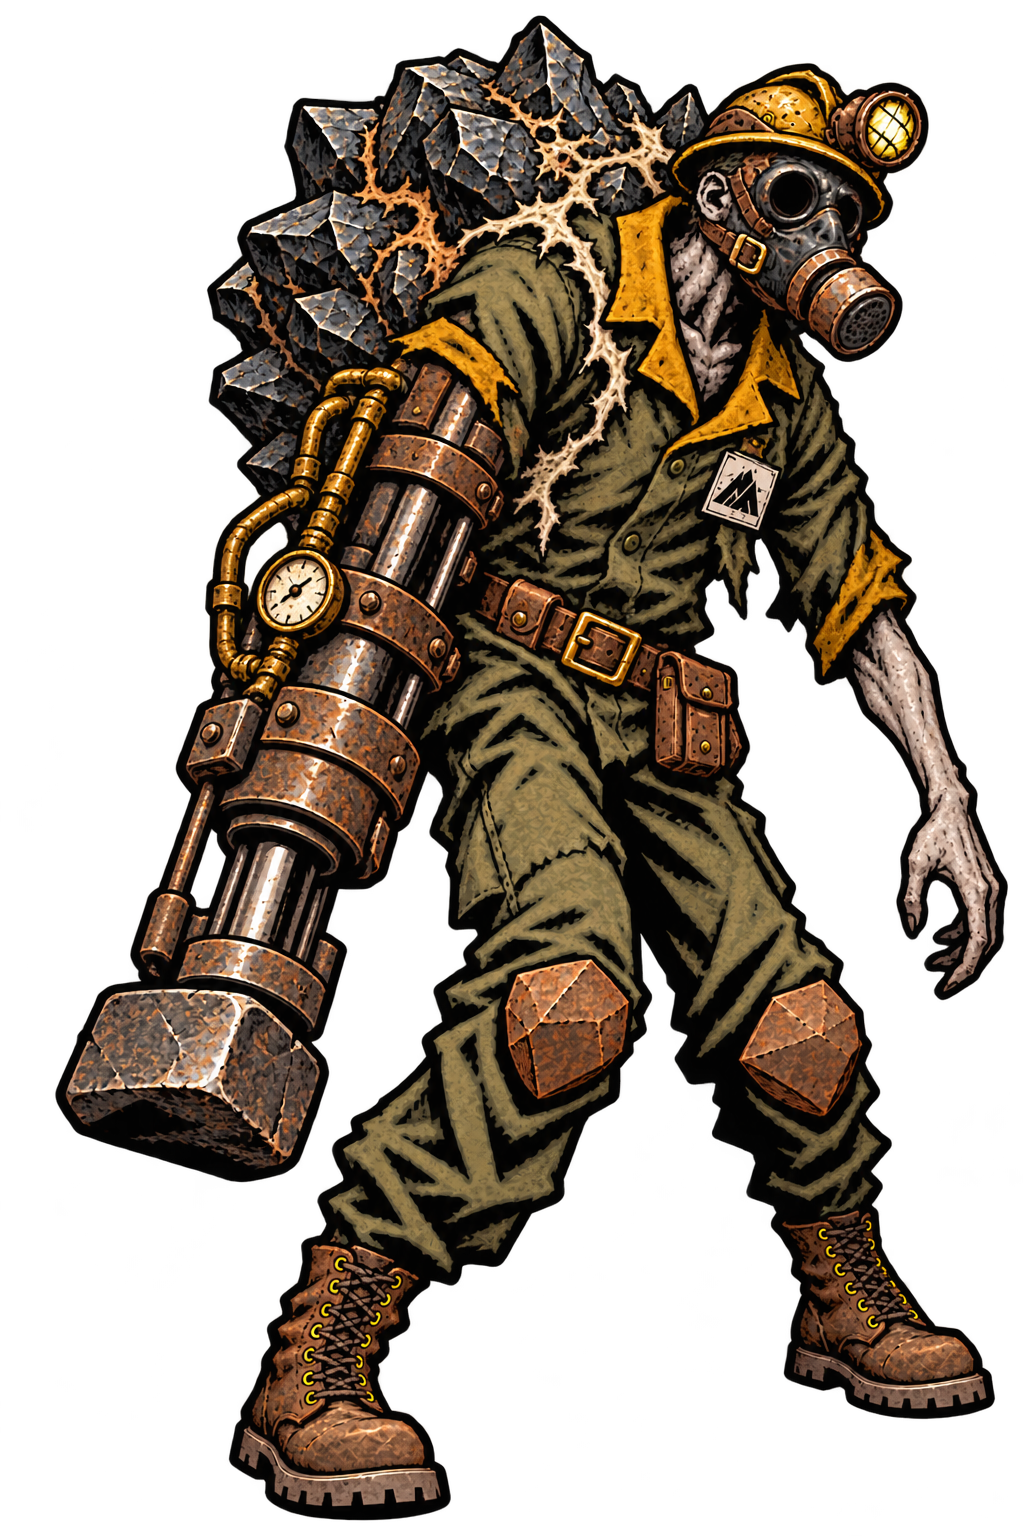
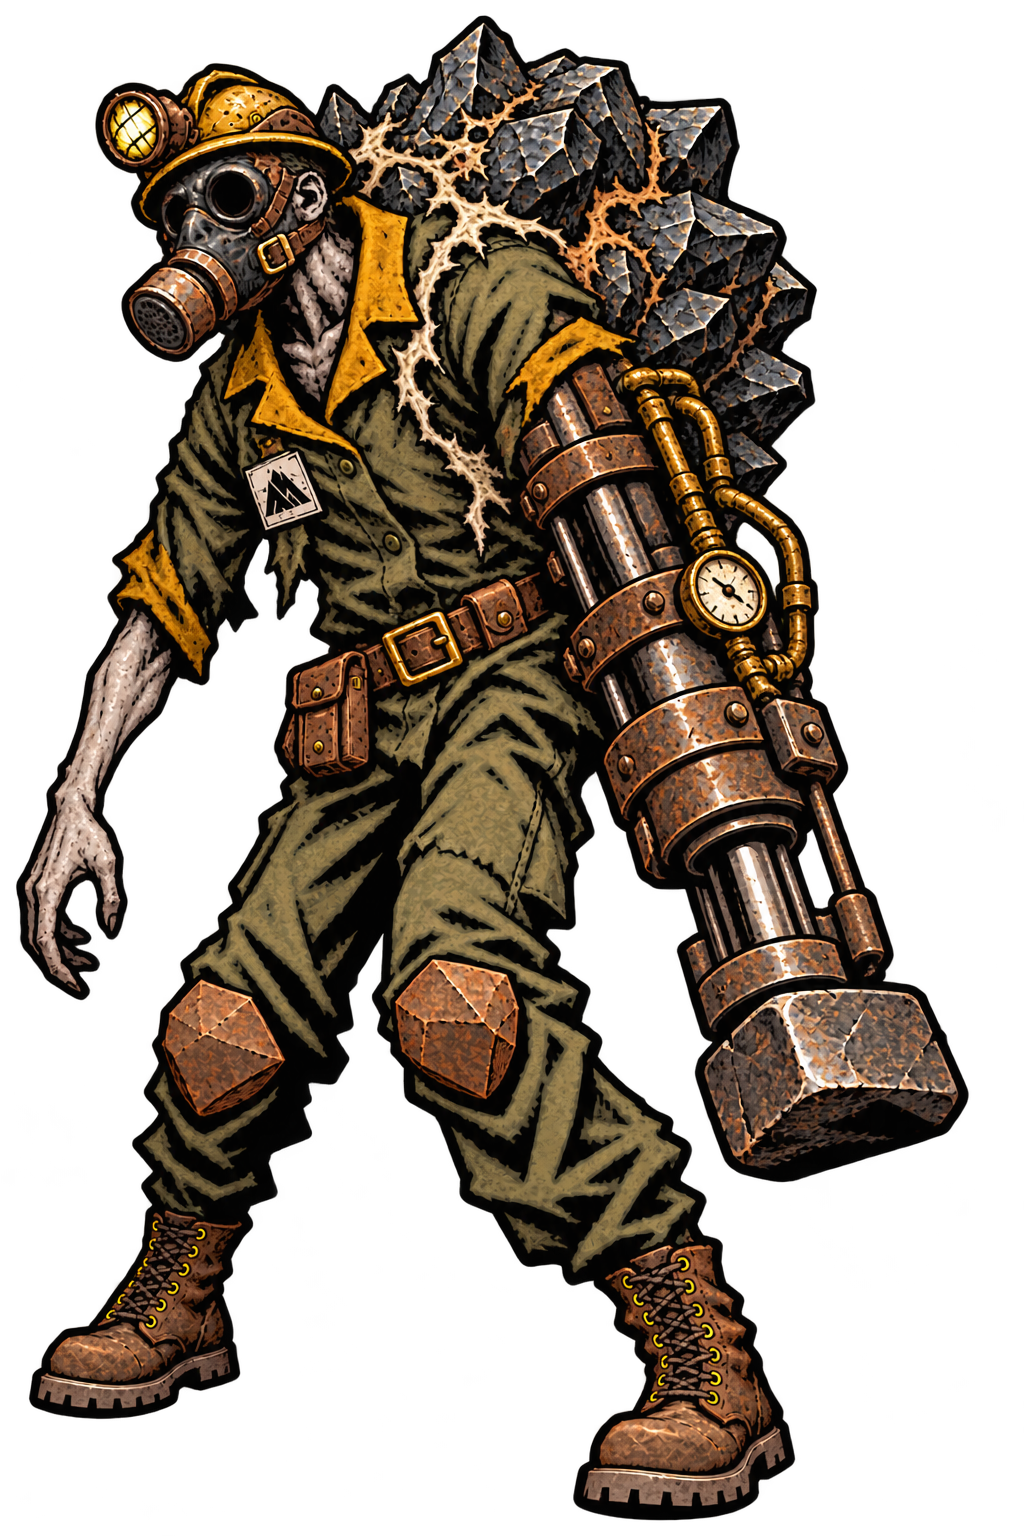
怪物立绘翻转

diff --git a/Assets/StageOne/Editor/FlipMonsterPortraits.cs b/Assets/StageOne/Editor/FlipMonsterPortraits.cs
@@ -1,0 +1,113 @@
+using System;
+using System.Collections.Generic;
+using System.IO;
+using System.Linq;
+using Ruin.Runtime;
+using UnityEditor;
+using UnityEngine;
+
+namespace Ruin.Editor
+{
+    // One-off art pass: mirrors the source PNG of every monster portrait except the boss units. Writing
+    // the same path keeps the .meta file, so GUIDs, importer settings and Resources lookups stay intact.
+    // Running the menu again flips the same files back.
+    public static class FlipMonsterPortraits
+    {
+        const string PortraitFolder = "Assets/StageOne/Resources/StageOne/EnemyArt";
+        const string CatalogPath = "StageOne/GameCatalog";
+
+        [MenuItem("GameMake/Art/Flip Monster Portraits (Except Bosses)")]
+        public static void Flip()
+        {
+            var catalog = Resources.Load<GameCatalog>(CatalogPath);
+            if (!catalog)
+            {
+                Debug.LogError("Flip Monster Portraits: 找不到 " + CatalogPath + "，无法确定首领列表。");
+                return;
+            }
+            var bosses = BossIds(catalog);
+            if (bosses.Count == 0)
+            {
+                Debug.LogError("Flip Monster Portraits: GameCatalog.BossEncounters 为空，已中止以免翻转首领立绘。");
+                return;
+            }
+            var paths = AssetDatabase.FindAssets("t:Texture2D", new[] { PortraitFolder })
+                .Select(AssetDatabase.GUIDToAssetPath)
+                .Where(path => path.EndsWith(".png", StringComparison.OrdinalIgnoreCase))
+                .OrderBy(path => path, StringComparer.Ordinal)
+                .ToArray();
+            int count = paths.Count(path => !IsBoss(path, bosses));
+            if (count == 0)
+            {
+                Debug.LogWarning("Flip Monster Portraits: " + PortraitFolder + " 里没有可翻转的怪物立绘。");
+                return;
+            }
+            if (!Application.isBatchMode && !EditorUtility.DisplayDialog("翻转怪物立绘",
+                "将水平翻转 " + count + " 张怪物立绘，首领立绘保持不变。\n\n直接改写 PNG 源文件；再执行一次可翻回。",
+                "翻转", "取消")) return;
+
+            int flipped = 0;
+            var skipped = new List<string>();
+            foreach (var path in paths)
+            {
+                if (IsBoss(path, bosses)) { skipped.Add(Path.GetFileNameWithoutExtension(path)); continue; }
+                if (FlipPng(path)) flipped++;
+            }
+            AssetDatabase.Refresh();
+            Debug.Log("FLIP_MONSTER_PORTRAITS flipped=" + flipped
+                + " skippedBosses=" + string.Join(",", skipped)
+                + " folder=" + PortraitFolder);
+        }
+
+        static HashSet<string> BossIds(GameCatalog catalog)
+        {
+            var ids = new HashSet<string>(StringComparer.Ordinal);
+            if (catalog.BossEncounters == null) return ids;
+            foreach (var lineup in catalog.BossEncounters)
+            {
+                if (lineup == null || lineup.Slots == null) continue;
+                foreach (var slot in lineup.Slots)
+                    if (slot && !string.IsNullOrEmpty(slot.Id)) ids.Add(slot.Id);
+            }
+            return ids;
+        }
+
+        static bool IsBoss(string path, HashSet<string> bosses)
+        {
+            string id = Path.GetFileNameWithoutExtension(path);
+            return bosses.Contains(id) || id.IndexOf("boss", StringComparison.OrdinalIgnoreCase) >= 0;
+        }
+
+        static bool FlipPng(string path)
+        {
+            var texture = new Texture2D(2, 2, TextureFormat.RGBA32, false);
+            try
+            {
+                if (!texture.LoadImage(File.ReadAllBytes(path)))
+                {
+                    Debug.LogError("Flip Monster Portraits: 无法读取 " + path);
+                    return false;
+                }
+                int width = texture.width, height = texture.height;
+                var pixels = texture.GetPixels32();
+                for (int y = 0; y < height; y++)
+                {
+                    int row = y * width;
+                    for (int x = 0; x < width / 2; x++)
+                    {
+                        int left = row + x, right = row + width - 1 - x;
+                        var swap = pixels[left];
+                        pixels[left] = pixels[right];
+                        pixels[right] = swap;
+                    }
+                }
+                texture.SetPixels32(pixels);
+                texture.Apply(false, false);
+                File.WriteAllBytes(path, texture.EncodeToPNG());
+                AssetDatabase.ImportAsset(path, ImportAssetOptions.ForceUpdate);
+                return true;
+            }
+            finally { UnityEngine.Object.DestroyImmediate(texture); }
+        }
+    }
+}
